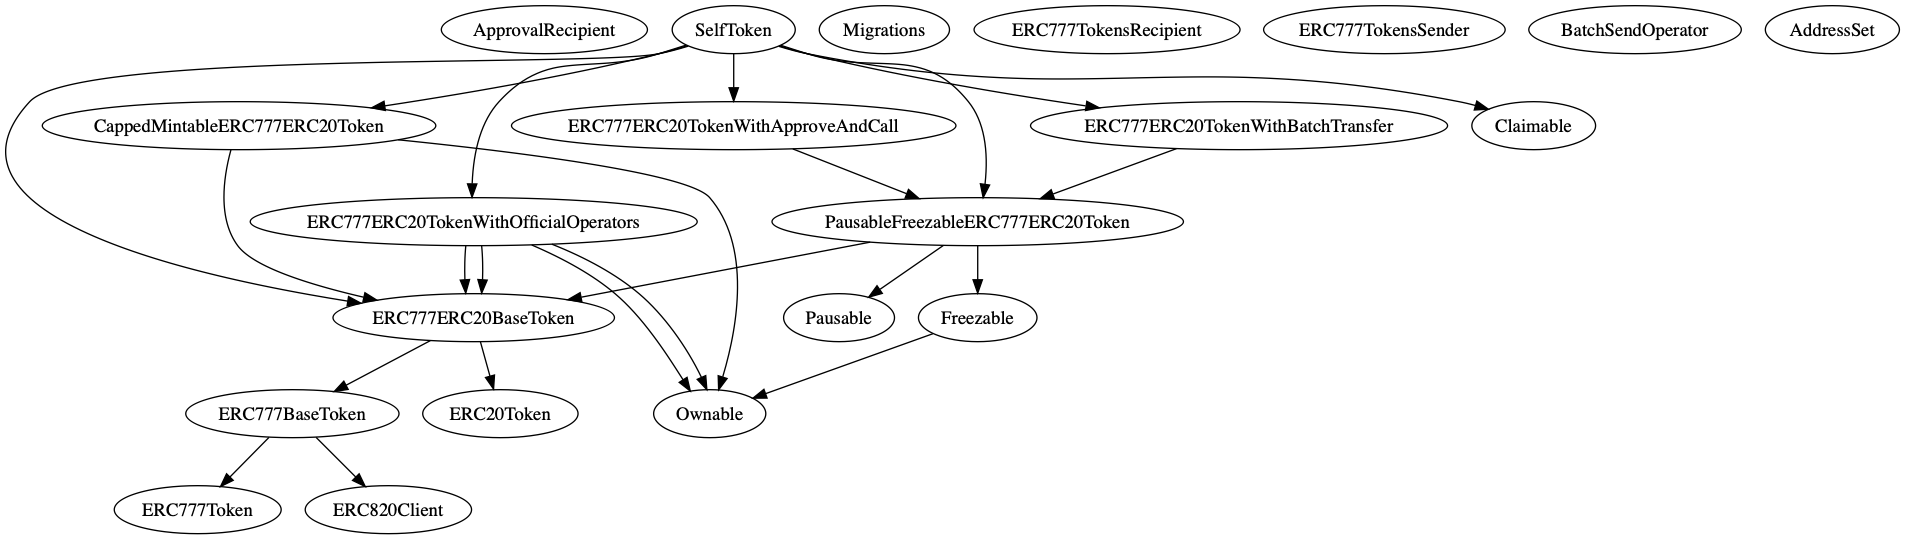
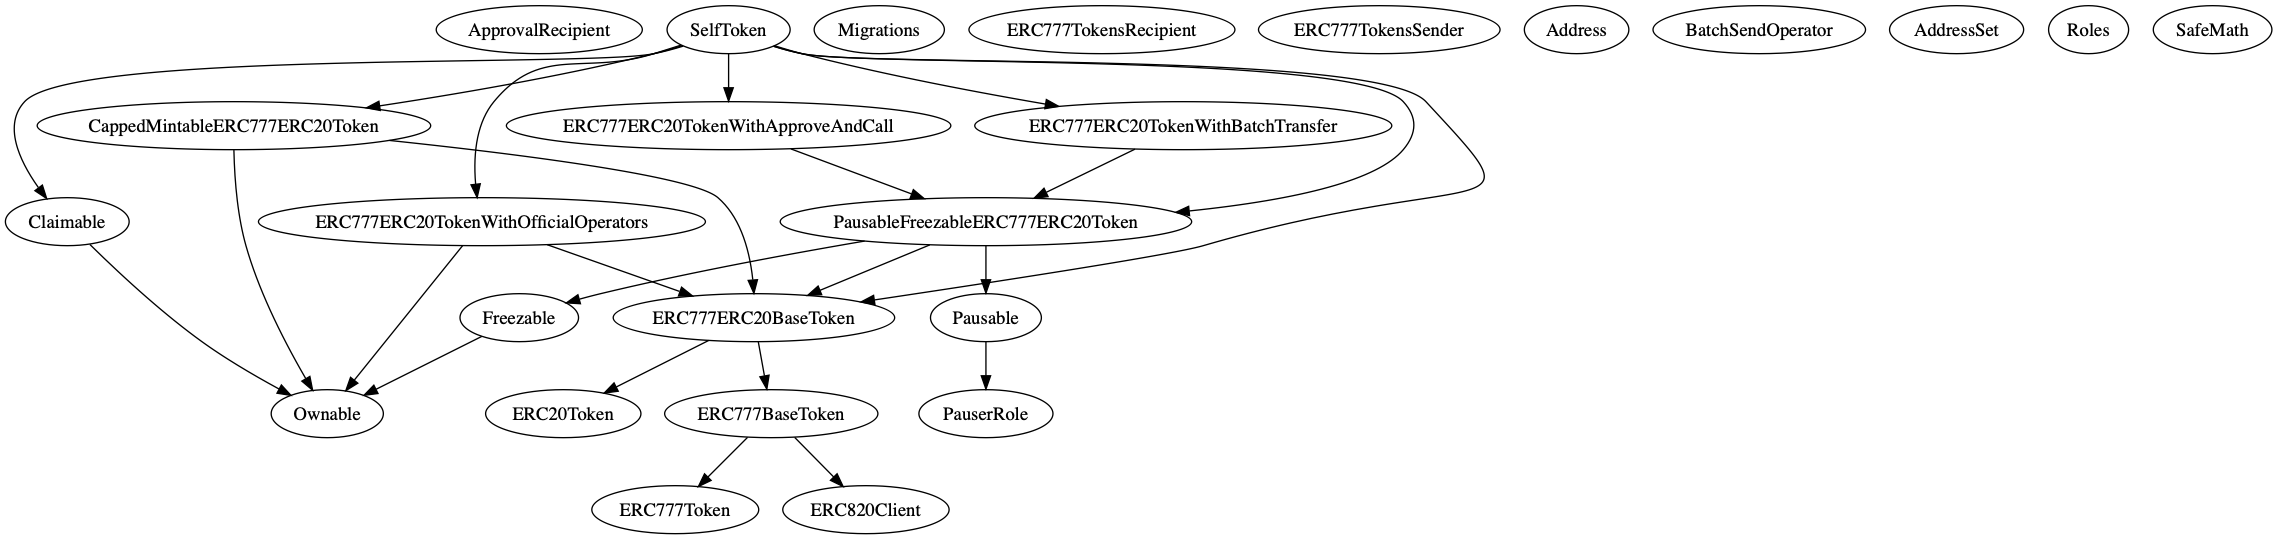
generate selfToken contract complete depency graph

diff --git a/README.md b/README.md
@@ -19,5 +19,11 @@ npm run lint:sol
 
 ```
 npm install -g surya
-surya inheritance contracts/* contracts/*/* | dot -Tpng > graph/SelfToken.png
+surya inheritance contracts/* contracts/*/* contracts/*/*/* | dot -Tpng > graph/SelfToken.png
+```
+
+## View Inheritance order
+
+```
+surya dependencies <contract_name> contracts/* contracts/*/* contracts/*/*/*
 ```
